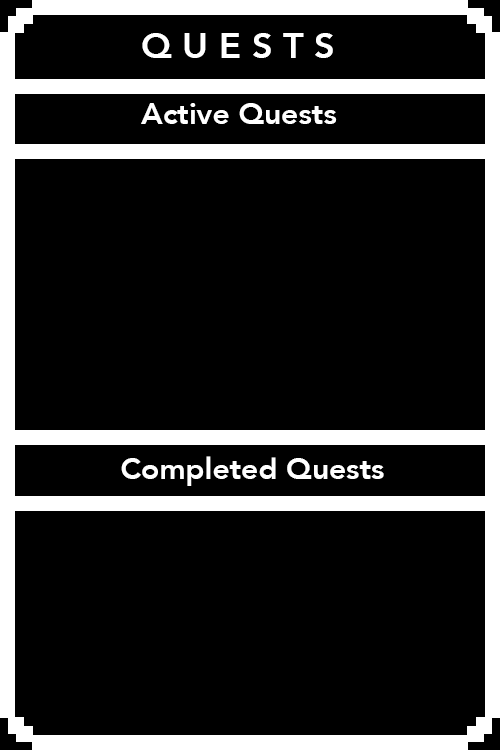
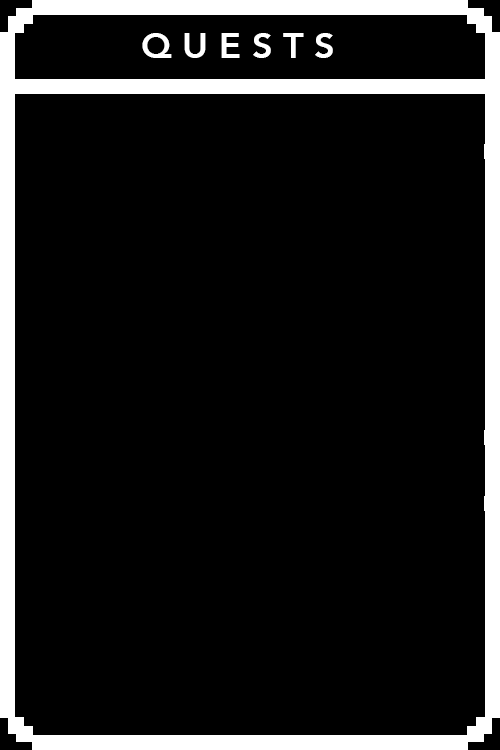
Syncs
Gun Icons
Inventory drawings
The Map
Castle interior redone, castle tower roof

Changed region(s): [[0.03, 0.552, 0.99, 0.7053], [0.03, 0.1227, 0.99, 0.2147]]

diff --git a/src/ca/javajesus/game/gui/InventoryGUI.java b/src/ca/javajesus/game/gui/InventoryGUI.java
@@ -29,12 +29,9 @@ public class InventoryGUI extends ScreenGUI {
 		inventory = new ItemScreenGUI(player);
 		this.input = new InputHandler(this);
 
-		JPanel p1 = new PlayerSlotGUI(player, 1, 0.34, 1);
-		JPanel p2 = new StatsSlotGUI();
-		JPanel p3 = new InventorySlotGUI();
-		JPanel p4 = new QuestSlotGUI();
-		JPanel p5 = new MapSlotGUI();
-		JPanel p6 = new StorySlotGUI();
+		JPanel p1 = new StatsSlotGUI();
+		JPanel p2 = new QuestSlotGUI();
+		JPanel p3 = new MapGUI();
 
 		this.activeScreen = new PlayerSlotGUI(player, 0, 0.75, 1.3);
 		((PlayerSlotGUI) activeScreen).setScale(0.75);
@@ -47,13 +44,10 @@ public class InventoryGUI extends ScreenGUI {
 
 		JPanel panel = new JPanel(new BorderLayout(0, 0));
 
-		JPanel slots = new JPanel(new GridLayout(3, 2));
+		JPanel slots = new JPanel(new GridLayout(2, 2));
+		slots.add(p3);
 		slots.add(p1);
 		slots.add(p2);
-		slots.add(p3);
-		slots.add(p4);
-		slots.add(p5);
-		slots.add(p6);
 
 		panel.add(activeScreen, BorderLayout.LINE_START);
 		panel.add(slots, BorderLayout.CENTER);

diff --git a/src/ca/javajesus/game/Game.java b/src/ca/javajesus/game/Game.java
@@ -102,8 +102,8 @@ public class Game extends Canvas implements Runnable {
 		display = new JPanel(new CardLayout());
 		display.add(introScreen, "Intro");
 		display.add(this, "Main");
-		display.add(inventory, "Inventory");
 		display.add(pause, "Pause");
+		display.add(inventory, "Inventory");
 		setMinimumSize(new Dimension(WIDTH * SCALE, HEIGHT * SCALE));
 		setMaximumSize(new Dimension(WIDTH * SCALE, HEIGHT * SCALE));
 		setPreferredSize(new Dimension(WIDTH * SCALE, HEIGHT * SCALE));

diff --git a/src/ca/javajesus/level/tile/Tile.java b/src/ca/javajesus/level/tile/Tile.java
@@ -65,7 +65,8 @@ public abstract class Tile {
 	public static final Tile CAVEWALL = new BasicSolidTile(19, 4, 0, Colors.get(-1, Colors.fromHex("#92928D"),
 			Colors.fromHex("#636361"), -1), 0xFF291900);
 	public static final Tile CAVEFLOOR = new BaseTile(20, 0, 2, Colors.get(-1, Colors.fromHex("#AEAEAD"),-1, -1),
-			0xFFa06201);
+			0xFFc3beb7);
+
 
 	protected byte id;
 	protected boolean solid;

diff --git a/src/ca/javajesus/game/gui/MapGUI.java b/src/ca/javajesus/game/gui/MapGUI.java
@@ -13,7 +13,7 @@ public class MapGUI extends ScreenGUI {
 	public MapGUI() {
 		try {
 			this.image = ImageIO.read(MapGUI.class
-					.getResource("/GUI/GUI-Map.png"));
+					.getResource("/GUI/GUI_Inventory/GUI_Map_2.png"));
 		} catch (IOException e) {
 			e.printStackTrace();
 		}

diff --git a/src/ca/javajesus/game/gui/slots/StatsSlotGUI.java b/src/ca/javajesus/game/gui/slots/StatsSlotGUI.java
@@ -5,7 +5,7 @@ public class StatsSlotGUI extends Slot {
 	private static final long serialVersionUID = 1L;
 
 	public StatsSlotGUI() {
-		super("/GUI/GUI_Inventory/GUI_STATS.png");
+		super("/GUI/GUI_Inventory/GUI_FACTIONS.png");
 	}
 
 }
